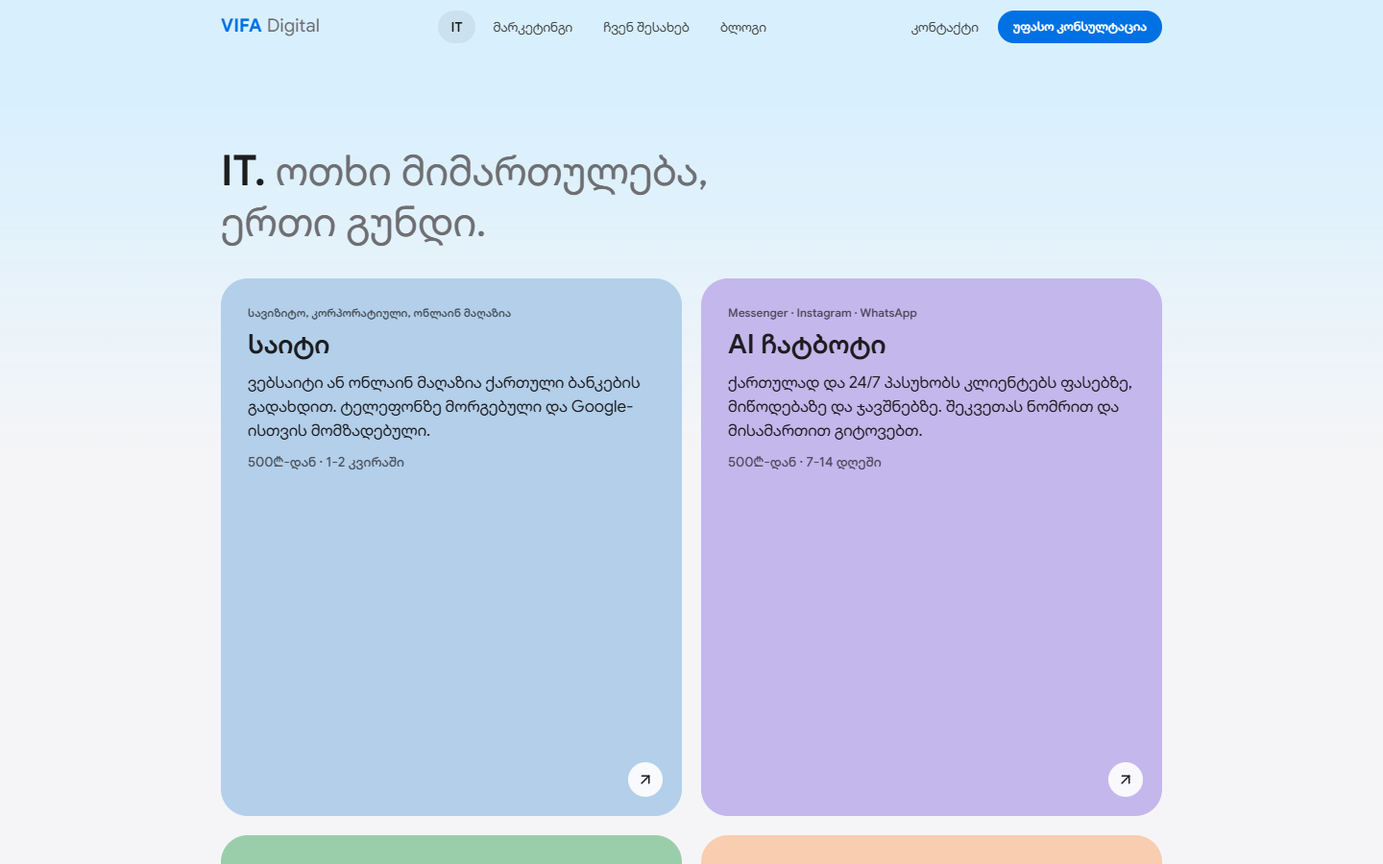
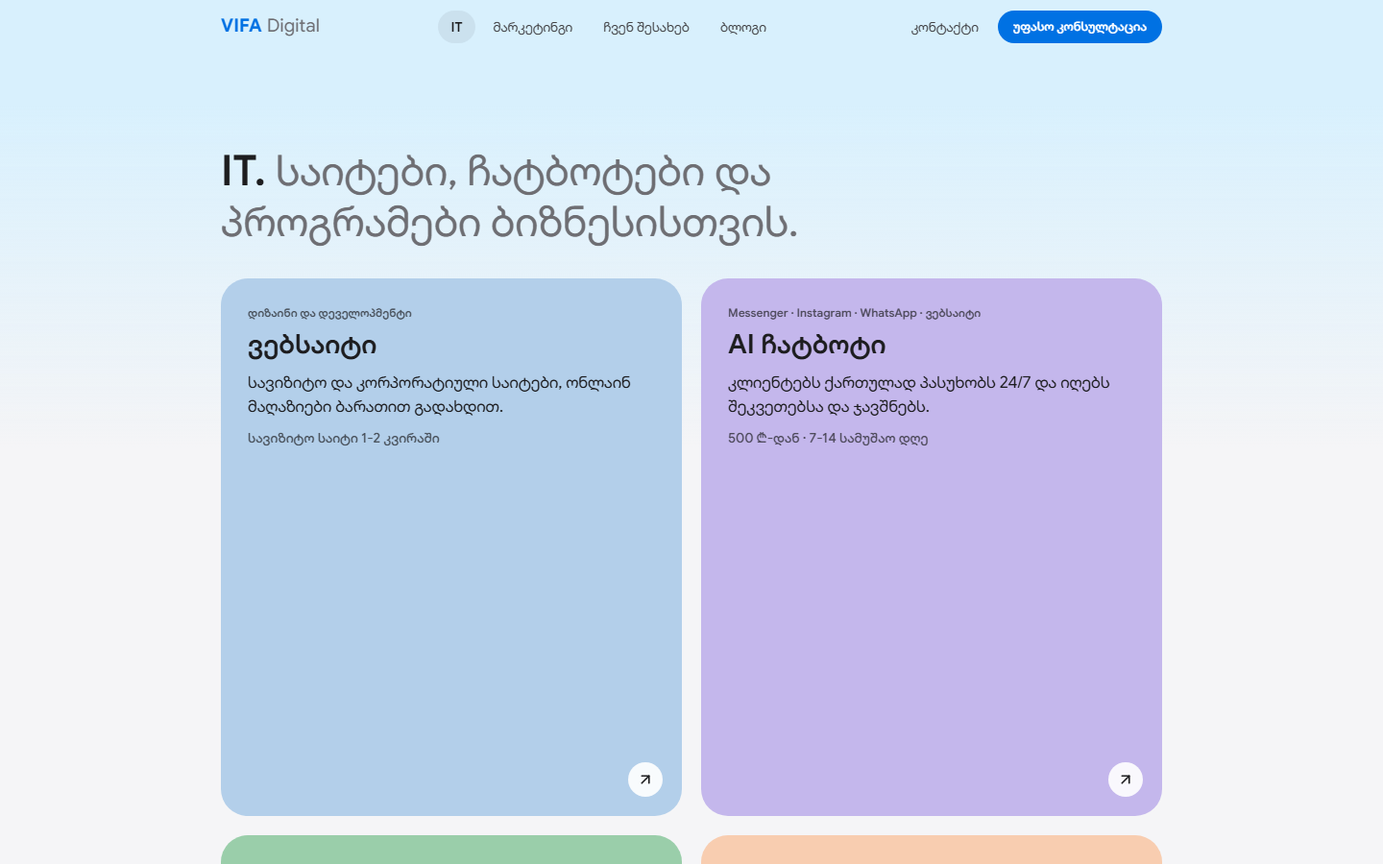
Finalize the IT hub copy and mobile layout

diff --git a/src/pages/preview/hubFaqData.ts b/src/pages/preview/hubFaqData.ts
@@ -1,25 +1,25 @@
-// Copied from WebDev.tsx (ka) and AIChatbot.tsx (ka, faq.q1).
+// Pricing, timelines and features come from WebDev.tsx and AIChatbot.tsx.
 // Keep the visible answers and JSON-LD on the same source of truth.
 export const hubFaqs = [
   {
-    question: "რა ღირს საიტის დამზადება?",
-    answer: "პროექტის ღირებულება შერჩეულ პაკეტზეა დამოკიდებული. სავიზიტო ვებსაიტის ფასი 500₾-დან იწყება, CMS-ით უზრუნველყოფილი პრემიუმ ვებსაიტის ღირებულება 700₾-დან 1000₾-მდე მერყეობს, ხოლო სრულფასოვანი ონლაინ მაღაზიის დამზადება 1400₾-დან არის შესაძლებელი. ჩვენთან კონსულტაცია უფასოა და ზუსტ შეთავაზებას თქვენი ბიზნესის საჭიროებებზე მორგებით მოგიმზადებთ.",
+    question: "რა ღირს ვებსაიტი?",
+    answer: "სავიზიტო საიტის ფასი 500 ₾-დან იწყება. პრემიუმ საიტი მართვის პანელით 700-დან 1 000 ₾-მდე ღირს, ონლაინ მაღაზია კი 1 400 ₾-დან. კონსულტაცია უფასოა. ზუსტ ფასს მას შემდეგ გეტყვით, რაც გავიგებთ, რა გჭირდებათ.",
   },
   {
     question: "რამდენ ხანში მზადდება ვებსაიტი?",
-    answer: "სავიზიტო ვებსაიტის დასამზადებლად საშუალოდ 1-დან 2 კვირამდე დროა საჭირო. პრემიუმ კორპორატიული ვებსაიტის შექმნას 2-დან 4 კვირამდე ვუთმობთ, ხოლო ონლაინ მაღაზიის სრულყოფილად გამართვას 4-დან 6 კვირამდე სჭირდება. სამუშაოს ზუსტ ვადებს პროექტის სპეციფიკისა და მოცულობის მიხედვით ინდივიდუალურად ვათანხმებთ.",
+    answer: "სავიზიტო საიტს საშუალოდ 1-2 კვირა სჭირდება, პრემიუმ კორპორატიულ საიტს 2-4 კვირა, ონლაინ მაღაზიას კი 4-6 კვირა. ზუსტ ვადას პროექტის მოცულობის მიხედვით შევათანხმებთ.",
   },
   {
-    question: "რამდენ დროს მოითხოვს ჩატბოტის გაშვება?",
-    answer: "7-14 სამუშაო დღე. მზა AI ასისტენტს მიიღებთ 7-14 სამუშაო დღეში. ზუსტი ვადები დამოკიდებულია თქვენი ბიზნესის სირთულესა და საჭირო ინტეგრაციების რაოდენობაზე.",
+    question: "რამდენ ხანში მზადდება ჩატბოტი?",
+    answer: "ჩატბოტს 7-14 სამუშაო დღეში ვამზადებთ. ზუსტი ვადა დამოკიდებულია იმაზე, რა უნდა გააკეთოს ბოტმა და რომელ სისტემებთან უნდა დავაკავშიროთ.",
   },
   {
-    question: "აკეთებთ ონლაინ მაღაზიას ქართული ბანკებით გადახდით?",
-    answer: "დიახ, ვქმნით სრულყოფილ ონლაინ მაღაზიებს ქართული ბანკების გადახდის სისტემების სრული ინტეგრაციით. პლატფორმას ასევე ვუკავშირებთ Vifa WMS სისტემას, რაც საშუალებას გაძლევთ მართოთ პროდუქტები, ავტომატურად დაასინქრონოთ მარაგები, დაბეჭდოთ საკურიერო სტიკერები და აკონტროლოთ შეკვეთები რეალურ დროში (real-time).",
+    question: "შეიძლება ონლაინ მაღაზიაში ბარათით გადახდა?",
+    answer: "დიახ. ონლაინ მაღაზიაში ქართული ბანკების გადახდის სისტემებს ვრთავთ. შეგვიძლია მაღაზია Invento WMS-ს დავუკავშიროთ, რომ მართოთ პროდუქტები, ავტომატურად განაახლოთ მარაგები, დაბეჭდოთ საკურიერო სტიკერები და შეკვეთებს რეალურ დროში თვალი ადევნოთ.",
   },
   {
-    question: "შევძლებ ვებსაიტის კონტენტის დამოუკიდებლად მართვას?",
-    answer: "დიახ, პრემიუმ პაკეტის არჩევის შემთხვევაში საიტს მოჰყვება სრულფასოვანი მართვის სისტემა (CMS) და მოსახერხებელი ადმინ პანელი. ამის დახმარებით, დეველოპერის ჩარევის გარეშე, დამოუკიდებლად შეძლებთ ტექსტების, პროდუქტებისა და სიახლეების განახლებას.",
+    question: "შემიძლია საიტზე ტექსტები და პროდუქტები თავად შევცვალო?",
+    answer: "დიახ. პრემიუმ პაკეტში შედის მართვის პანელი, საიდანაც ტექსტებს, პროდუქტებსა და სიახლეებს თავად განაახლებთ.",
   },
 ] as const;
 

diff --git a/src/pages/preview/ITHubPreview.tsx b/src/pages/preview/ITHubPreview.tsx
@@ -31,7 +31,7 @@ const COLORS = {
 } as const;
 
 const CONTACT_NAME = "ერეკლე";
-const HERO_TITLE = "ოთხი მიმართულება, ერთი გუნდი.";
+const HERO_TITLE = "საიტები, ჩატბოტები და პროგრამები ბიზნესისთვის.";
 // One soft color wash, fixed to the top of the screen so it stays with the visitor while
 // scrolling, slowly moving through these tones every WASH_STEP_MS.
 const WASH_PALETTE = ["#d8f0fd", "#fbe2ec", "#e9e3fb", "#dcf2e7"] as const;
@@ -1008,10 +1008,10 @@ export default function ITHubPreview() {
             active={rotation.activeProduct === "web"} turn={rotation.turn}
             onDone={() => rotation.finish("web", rotation.turn)} onActivate={() => rotation.activate("web")}
             to="/services/web"
-            eyebrow="სავიზიტო, კორპორატიული, ონლაინ მაღაზია"
-            title="საიტი"
-            body="ვებსაიტი ან ონლაინ მაღაზია ქართული ბანკების გადახდით. ტელეფონზე მორგებული და Google-ისთვის მომზადებული."
-            facts="500₾-დან · 1-2 კვირაში"
+            eyebrow="დიზაინი და დეველოპმენტი"
+            title="ვებსაიტი"
+            body="სავიზიტო და კორპორატიული საიტები, ონლაინ მაღაზიები ბარათით გადახდით."
+            facts="სავიზიტო საიტი 1-2 კვირაში"
           >
             {(step, _reducedMotion, exiting) => <BrowserWindowObject step={step} exiting={exiting} />}
           </ColoredServiceCard>
@@ -1022,10 +1022,10 @@ export default function ITHubPreview() {
             active={rotation.activeProduct === "chatbot"} turn={rotation.turn}
             onDone={() => rotation.finish("chatbot", rotation.turn)} onActivate={() => rotation.activate("chatbot")}
             to="/services/ai-chatbot"
-            eyebrow="Messenger · Instagram · WhatsApp"
+            eyebrow="Messenger · Instagram · WhatsApp · ვებსაიტი"
             title="AI ჩატბოტი"
-            body="ქართულად და 24/7 პასუხობს კლიენტებს ფასებზე, მიწოდებაზე და ჯავშნებზე. შეკვეთას ნომრით და მისამართით გიტოვებთ."
-            facts="500₾-დან · 7-14 დღეში"
+            body="კლიენტებს ქართულად პასუხობს 24/7 და იღებს შეკვეთებსა და ჯავშნებს."
+            facts="500 ₾-დან · 7-14 სამუშაო დღე"
           >
             {(step, reducedMotion, exiting) => <ChatbotPhoneObject step={step} reducedMotion={reducedMotion} exiting={exiting} />}
           </ColoredServiceCard>
@@ -1036,10 +1036,10 @@ export default function ITHubPreview() {
             active={rotation.activeProduct === "invento"} turn={rotation.turn}
             onDone={() => rotation.finish("invento", rotation.turn)} onActivate={() => rotation.activate("invento")}
             to="/inventowms"
-            eyebrow="საწყობის პროგრამა"
+            eyebrow="მაღაზიებისა და საწყობებისთვის"
             title="Invento WMS"
-            body="საქონლის აღრიცხვა, შეკვეთები და ფინანსები ერთ სისტემაში. მაღაზიებისა და ონლაინ ბიზნესისთვის."
-            facts="79₾/თვე-დან · 7 დღე უფასოდ"
+            body="მართეთ მარაგები, შეკვეთები და ფინანსები ერთი პროგრამიდან."
+            facts="79 ₾ თვეში · 7 დღე უფასოდ"
           >
             {(step, _reducedMotion, exiting) => <LaptopObject step={step} exiting={exiting} />}
           </ColoredServiceCard>
@@ -1050,10 +1050,10 @@ export default function ITHubPreview() {
             active={rotation.activeProduct === "lineup"} turn={rotation.turn}
             onDone={() => rotation.finish("lineup", rotation.turn)} onActivate={() => rotation.activate("lineup")}
             to="/lineup"
-            eyebrow="სპორტული აკადემიის აპი"
+            eyebrow="გუნდები · განრიგი · გადახდები"
             title="LineUp"
-            body="სპორტული აკადემიის მართვა ერთ აპში: გადახდები, დასწრება და მშობლებთან კავშირი."
-            facts="ცოცხალი დემო საიტზე"
+            body="სპორტული აკადემიების, კლუბებისა და სტუდიების მართვის პორტალი."
+            facts="ნახეთ დემო"
           >
             {(step, reducedMotion, exiting) => <LineupPhoneObject step={step} reducedMotion={reducedMotion} exiting={exiting} />}
           </ColoredServiceCard>
@@ -1071,7 +1071,7 @@ export default function ITHubPreview() {
           <div className="it-contact-card">
             <h2 className="it-h2">
               <span className="it-tone-1">კითხვა გაქვთ?</span>{" "}
-              <span className="it-tone-2">მოგვწერეთ, გიპასუხებთ პირადად.</span>
+              <span className="it-tone-2">მოგვიყევით, რა გჭირდებათ.</span>
             </h2>
             <div className="it-contact-row">
               <div className="it-contact-person">
@@ -1082,12 +1082,12 @@ export default function ITHubPreview() {
                 )}
                 <div>
                   <h3 className="it-contact-name">{CONTACT_NAME}</h3>
-                  <p className="it-contact-note">WhatsApp-ზე პირადად გიპასუხებთ.</p>
+                  <p className="it-contact-note">პირადად გიპასუხებთ.</p>
                 </div>
               </div>
               <div className="it-contact-actions">
                 <a href={WHATSAPP_URL} target="_blank" rel="noopener noreferrer" className="it-pill-button">
-                  მოგვწერეთ
+                  მოგვწერეთ WhatsApp-ზე
                 </a>
                 <Link to="/contact" className="it-more-link">საკონტაქტო ფორმა ›</Link>
               </div>

diff --git a/src/pages/preview/HowWeStart.tsx b/src/pages/preview/HowWeStart.tsx
@@ -1,43 +1,53 @@
+import { Link } from "react-router-dom";
 import { useProductScene } from "./useProductScene";
 import type { SceneTiming } from "./useProductScene";
 
 const revealTiming: SceneTiming = { steps: [0, 300, 600], duration: 1200 };
 const consultationUrl = "https://wa.me/995557624243?text=" + encodeURIComponent("გამარჯობა, მინდა უფასო კონსულტაცია.");
 const steps = [
-  { eyebrow: "პირველი ნაბიჯი", title: "მოგვწერეთ", body: "WhatsApp-ში ან ფორმით. პირველი კონსულტაცია უფასოა." },
-  { eyebrow: "მეორე ნაბიჯი", title: "მიიღეთ შეთავაზება", body: "ზუსტი ფასი და ვადა, თქვენს ბიზნესზე მორგებული." },
-  { eyebrow: "მესამე ნაბიჯი", title: "ვაწყობთ და ვუშვებთ", body: "სავიზიტო საიტი 1-2 კვირაში, ჩატბოტი 7-14 დღეში." },
+  { title: "მოგვწერეთ", body: "WhatsApp-ზე ან საკონტაქტო ფორმით მოგვიყევით, რა გჭირდებათ." },
+  { title: "მიიღეთ შეთავაზება", body: "შეთავაზებაში დავწერთ, რა შედის პროექტში, რა ეღირება და რამდენი დრო დაგვჭირდება." },
+  { title: "პროექტს გავუშვებთ", body: "თქვენი თანხმობის შემდეგ სამუშაოს ვიწყებთ. დასრულებულ პროექტს შეთანხმებულ ვადაში მიიღებთ." },
 ];
 
 export function HowWeStart() {
   const scene = useProductScene<HTMLElement>("web", {
-    timing: revealTiming, threshold: 0.5, loop: false, replayOnHover: false,
+    timing: revealTiming, threshold: 0.3, loop: false, replayOnHover: false,
   });
   return <section ref={scene.cardRef} id="getting-started" className="it-section it-getting-started it-col">
-    <h2 className="it-h2"><span>როგორ ვიწყებთ.</span>{" "}<span className="it-tone-2">პირველი მესიჯიდან გაშვებამდე.</span></h2>
-    <ol className="it-start-steps" data-scene-step={scene.step} data-loop-cycle={scene.cycle} data-reduced-motion={scene.reducedMotion}>
+    <h2 className="it-h2">როგორ ვმუშაობთ</h2>
+    <ol className="it-start-steps" role="list" data-scene-step={scene.step} data-loop-cycle={scene.cycle} data-reduced-motion={scene.reducedMotion}>
       {steps.map((step, index) => <li key={step.title} className="it-start-card">
-      <div className="it-start-artifact-space" aria-hidden="true">
-        <div className="it-start-artifact it-scene-element" data-show={scene.step > index}>
-          {index === 0 && <div className="it-start-chat">
-            <p className="it-start-chat-customer">გამარჯობა, საიტი მაინტერესებს.</p>
-            <p className="it-start-chat-reply">გამარჯობა! მოგვიყევით, რა გჭირდებათ.</p>
-          </div>}
-          {index === 1 && <div className="it-start-offer">
-            <strong>შეთავაზება</strong>
-            <div><span>სავიზიტო საიტი</span><span>500₾</span></div>
-            <div><span>ვადა</span><span>1-2 კვირა</span></div>
-            <span className="it-start-confirm">დადასტურება</span>
-          </div>}
-          {index === 2 && <div className="it-start-browser">
-            <div className="it-browser-bar"><div className="it-browser-dots"><span className="it-browser-dot" /><span className="it-browser-dot" /><span className="it-browser-dot" /></div><div className="it-browser-pill" /></div>
-            <div className="it-start-browser-body"><span>საიტი გაშვებულია ✓</span></div>
-          </div>}
+        <div>
+          <h3>{step.title}</h3>
+          <p className="it-start-description">{step.body}</p>
         </div>
-      </div>
-      <p className="it-start-eyebrow">{step.eyebrow}</p>
-      <h3>{step.title}</h3><p className="it-start-description">{step.body}</p>
-    </li>)}</ol>
-    <div className="it-start-consultation"><a className="it-pill-button" href={consultationUrl} target="_blank" rel="noopener noreferrer">უფასო კონსულტაცია</a></div>
+        <div className="it-start-artifact-space" aria-hidden="true">
+          <div className="it-start-artifact it-scene-element" data-show={scene.step > index}>
+            {index === 0 && <div className="it-start-chat">
+              <p className="it-start-chat-customer">გამარჯობა, საიტი მაინტერესებს.</p>
+              <p className="it-start-chat-reply">გამარჯობა! მოგვიყევით, რა გჭირდებათ.</p>
+            </div>}
+            {index === 1 && <div className="it-start-offer">
+              <strong>შეთავაზების მაგალითი</strong>
+              <div><span>პროექტი</span><span>სავიზიტო საიტი</span></div>
+              <div><span>ფასი</span><span>500 ₾</span></div>
+              <div><span>ვადა</span><span>1-2 კვირა</span></div>
+            </div>}
+            {index === 2 && <div className="it-start-browser">
+              <div className="it-browser-bar">
+                <div className="it-browser-dots"><span className="it-browser-dot" /><span className="it-browser-dot" /><span className="it-browser-dot" /></div>
+                <div className="it-browser-pill">vifadigital.ge</div>
+              </div>
+              <div className="it-start-browser-body"><span>საიტი გაშვებულია ✓</span></div>
+            </div>}
+          </div>
+        </div>
+      </li>)}
+    </ol>
+    <div className="it-start-consultation">
+      <a className="it-pill-button" href={consultationUrl} target="_blank" rel="noopener noreferrer">უფასო კონსულტაცია</a>
+      <Link className="it-more-link" to="/contact">საკონტაქტო ფორმა ›</Link>
+    </div>
   </section>;
 }

diff --git a/src/pages/preview/hubSections.css b/src/pages/preview/hubSections.css
@@ -179,28 +179,30 @@
   .it-website-phone[data-show="true"] { transform: none; }
 }
 .it-getting-started { background: transparent; }
-.it-start-steps { display: grid; grid-template-columns: minmax(0,1fr); gap: 20px; padding: 0; margin: 32px 0 0; list-style: none; }
-.it-start-card { min-width: 0; padding: 24px; border-radius: 28px; background: #ffffff; }
-.it-start-artifact-space { height: 180px; display: grid; align-items: center; }
+.it-start-steps { display: grid; grid-template-columns: minmax(0,1fr); padding: 0; margin: 28px 0 0; list-style: none; border-radius: 28px; background: #ffffff; }
+.it-start-card { min-width: 0; padding: 22px; display: flex; flex-direction: column; gap: 16px; }
+.it-start-card + .it-start-card { border-top: 1px solid #e8e9ed; }
+.it-start-artifact-space { min-height: 142px; display: grid; place-items: center; padding: 12px; margin-top: auto; border-radius: 18px; background: #eaf3fb; }
+.it-start-card:nth-child(2) .it-start-artifact-space { background: #eeeef8; }
+.it-start-card:nth-child(3) .it-start-artifact-space { background: #eaf4ee; }
 .it-start-artifact { width: 100%; color: #1d1d1f; font-size: 13px; line-height: 1.4; }
-.it-start-chat, .it-start-offer, .it-start-browser { border: 1px solid #e5e5ea; border-radius: 14px; background: white; overflow: clip; }
-.it-start-chat { display: flex; flex-direction: column; align-items: flex-start; gap: 8px; padding: 14px; }
-.it-start-chat p { max-width: 90%; margin: 0; padding: 9px 11px; border-radius: 14px; }
+.it-start-offer, .it-start-browser { border-radius: 12px; background: white; overflow: clip; box-shadow: 0 4px 14px rgba(29,29,31,0.07); }
+.it-start-chat { display: flex; flex-direction: column; align-items: flex-start; gap: 8px; }
+.it-start-chat p { max-width: 94%; margin: 0; padding: 8px 10px; border-radius: 12px; }
 .it-start-chat-customer { align-self: flex-end; color: white; background: #0071e3; }
-.it-start-chat-reply { background: #e9e9eb; }
-.it-start-offer { padding: 14px; }
-.it-start-offer strong { display: block; margin-bottom: 12px; font-size: 14px; font-weight: 600; }
-.it-start-offer > div { display: flex; justify-content: space-between; gap: 12px; margin-top: 8px; }
-.it-start-offer > div > span:last-child { flex-shrink: 0; font-weight: 500; }
-.it-start-confirm { display: inline-flex; align-items: center; min-height: 26px; margin-top: 12px; padding: 4px 10px; border-radius: 999px; background: #0071e3; color: white; font-size: 11px; }
-.it-start-browser .it-browser-bar { height: 32px; padding-inline: 10px; gap: 10px; }
+.it-start-chat-reply { background: #ffffff; }
+.it-start-offer { padding: 10px 12px; }
+.it-start-offer strong { display: block; margin-bottom: 6px; font-size: 13px; font-weight: 600; }
+.it-start-offer > div { display: flex; justify-content: space-between; gap: 8px; padding-block: 3px; }
+.it-start-offer > div > span:first-child { color: #6e6e73; }
+.it-start-offer > div > span:last-child { font-weight: 500; text-align: end; }
+.it-start-browser .it-browser-bar { height: 28px; padding-inline: 8px; gap: 8px; }
 .it-start-browser .it-browser-dot { width: 6px; height: 6px; }
-.it-start-browser-body { display: grid; place-items: center; min-height: 116px; padding: 16px; }
-.it-start-browser-body > span { padding: 10px 12px; border: 1px solid #e5e5ea; border-radius: 14px; background: white; font-size: 13px; }
-.it-start-eyebrow { margin: 20px 0 0; font-size: 12px; line-height: 1.4; font-weight: 600; color: rgba(29,29,31,0.7); }
-.it-start-steps h3 { margin: 8px 0 0; font-size: 22px; line-height: 1.3; font-weight: 600; color: #1d1d1f; }
+.it-start-browser-body { display: grid; place-items: center; min-height: 76px; padding: 12px; }
+.it-start-browser-body > span { padding: 8px 10px; border-radius: 10px; background: #eaf4ee; color: #28553d; font-size: 13px; }
+.it-start-steps h3 { margin: 0; font-size: 22px; line-height: 1.3; font-weight: 600; color: #1d1d1f; }
 .it-start-description { margin: 8px 0 0; font-size: 16px; line-height: 1.5; color: #6e6e73; }
-.it-start-consultation { display: flex; justify-content: center; margin-top: 32px; }
+.it-start-consultation { display: flex; flex-wrap: wrap; align-items: center; justify-content: center; gap: 12px 20px; margin-top: 24px; }
 .it-faq-list { margin-top: 32px; }
 .it-faq-item { border-bottom: 1px solid #e5e5ea; }
 .it-faq-item:first-child { border-top: 1px solid #e5e5ea; }
@@ -215,6 +217,8 @@
 .it-faq-answer p { margin: 0; padding: 0 44px 24px 0; color: #6e6e73; font-size: 16px; line-height: 1.5; }
 @media (min-width: 900px) {
   .it-start-steps { grid-template-columns: repeat(3,minmax(0,1fr)); }
+  .it-start-card { padding: 26px; gap: 22px; }
+  .it-start-card + .it-start-card { border-top: 0; border-inline-start: 1px solid #e8e9ed; }
 }
 
 /* Industry carousel: large mosaic slides, next slide peeking, Apple-style pager. */
@@ -248,6 +252,20 @@
 .it-ic-dot { width: 8px; height: 8px; padding: 0; border: 0; border-radius: 999px; background: rgba(29,29,31,0.3); cursor: pointer; transition: width 300ms var(--it-enter-ease), background-color 300ms ease; }
 .it-ic-dot[data-on="true"] { width: 24px; background: #1d1d1f; }
 .it-ic-arrow:focus-visible, .it-ic-dot:focus-visible { outline: 2px solid #0071e3; outline-offset: 3px; }
+@media (width < 768px) {
+  .it-ic-track { margin-top: 22px; }
+  .it-ic-slide { grid-template-rows: clamp(148px, 42vw, 195px) auto minmax(max-content, 1fr); }
+  .it-ic-copy { padding: 16px 18px 4px; }
+  .it-ic-copy h3 { font-size: 22px; }
+  .it-ic-copy p { margin-top: 6px; font-size: 15px; line-height: 1.4; }
+  .it-ic-link { margin-top: 8px; line-height: 24px; }
+  .it-ic-tile { padding: 10px 14px 14px; }
+  .it-ic-widget { gap: 5px; padding: 10px 12px; }
+  .it-ic-widget strong { margin-bottom: 0; }
+  .it-ic-field { padding-block: 4px; }
+  .it-ic-button { height: 28px; margin-top: 2px; }
+  .it-ic-pager { margin-top: 16px; }
+}
 /* Desktop: mosaic. Text block top left, widget tile bottom left, big photo on the right. */
 @media (min-width: 768px) {
   .it-ic-slide { width: min(980px, calc(100vw - 44px - 60px)); height: 520px; grid-template-rows: minmax(0,1fr) minmax(0,1fr); grid-template-columns: minmax(0,1fr) minmax(0,1.35fr); }

diff --git a/src/pages/preview/IndustryCarousel.tsx b/src/pages/preview/IndustryCarousel.tsx
@@ -27,33 +27,33 @@ interface Slide {
 const slides: Slide[] = [
   {
     slug: "food", photo: "restaurant", alt: "რესტორნის ინტერიერი ფირუზისფერი კედლით და ხის მაგიდებით",
-    title: "რესტორნები და კაფეები", line: "საიტი ციფრული მენიუთი და მაგიდის დაჯავშნით.",
+    title: "რესტორნები და კაფეები", line: "ციფრული მენიუ და მაგიდის ონლაინ დაჯავშნა.",
     block: "#dcefef", focus: "40% 55%",
     widget: <Widget heading="მაგიდის დაჯავშნა" rows={[["თარიღი", "ხვალ"], ["დრო", "20:00"], ["სტუმარი", "4"]]} action="დაჯავშნა" />,
   },
   {
     slug: "tourism", photo: "hotel", alt: "ძველი თბილისის სახლი ჩუქურთმიანი ხის აივნებით", focus: "48% 45%",
-    title: "სასტუმროები", line: "საიტი პირდაპირი ჯავშნებისთვის.",
+    title: "სასტუმროები", line: "ოთახის დაჯავშნა პირდაპირ თქვენი საიტიდან.",
     block: "#e3edf6",
     widget: <Widget heading="ოთახის დაჯავშნა" rows={[["შესვლა", "12 დეკ"], ["გასვლა", "15 დეკ"], ["სტუმარი", "2"]]} action="თავისუფალი ოთახები" />,
   },
   {
     slug: "retail", photo: "shop", alt: "ტანსაცმლის მაღაზია, პასტელის ფერის ტანსაცმელი საკიდზე", focus: "50% 62%",
-    title: "მაღაზიები", line: "ონლაინ მაღაზია ქართული ბანკების გადახდით.",
+    title: "მაღაზიები", line: "ონლაინ მაღაზია ქართული ბანკების გადახდის სისტემებით.",
     block: "#e9edf4",
     widget: <Widget heading="ცისფერი პერანგი" rows={[["ზომა", "M"], ["ფასი", "79.00 ₾"]]} action="კალათაში დამატება" />,
   },
   {
     slug: "beauty", photo: "salon", alt: "პასტელის ფერის მანიკური იასამნისფერ ფონზე", focus: "50% 38%",
-    title: "სალონები", line: "საიტი ონლაინ ჩაწერით.",
+    title: "სალონები", line: "კლიენტები თავად ირჩევენ დროს და ონლაინ ეწერებიან.",
     block: "#ece6f5",
     widget: <Slots />,
   },
   {
     slug: "legal-finance", photo: "legal", alt: "ხელშეკრულებაზე ხელმოწერა, ახლო ხედი", focus: "40% 45%",
-    title: "იურიდიული კომპანიები", line: "კორპორატიული საიტი და კლიენტთა პორტალი.",
+    title: "იურიდიული კომპანიები", line: "კლიენტის პორტალი დოკუმენტების გასაცვლელად.",
     block: "#eceae6",
-    widget: <Widget heading="კლიენტის პორტალი" rows={[["დოკუმენტი", "ხელშეკრულება.pdf"], ["სტატუსი", "ხელმოსაწერად"]]} action="გახსნა" />,
+    widget: <Widget heading="კლიენტის პორტალი" rows={[["დოკუმენტი", "ხელშეკრულება.pdf"], ["სტატუსი", "გაზიარებულია"]]} action="გახსნა" />,
   },
 ];
 
@@ -68,7 +68,7 @@ function Widget({ heading, rows, action }: { heading: string; rows: [string, str
 function Slots() {
   return <div className="it-ic-widget">
     <strong>ჩაწერა: მანიკური</strong>
-    <span className="it-ic-label">ხვალ, თავისუფალი დრო</span>
+    <span className="it-ic-label">თავისუფალი დრო ხვალ</span>
     <div className="it-ic-slots">{["11:00", "12:00", "15:30", "17:00"].map((t) => <span key={t} data-on={t === "12:00"}>{t}</span>)}</div>
     <span className="it-ic-button">ჩაწერა</span>
   </div>;
@@ -141,8 +141,10 @@ export function IndustryCarousel() {
 
   return (
     <section ref={sectionRef} id="industries" className="it-section it-industry-carousel"
-      aria-roledescription="carousel" aria-label="საიტი თქვენი დარგისთვის">
-      <h2 className="it-h2 it-col"><span>საიტი თქვენი დარგისთვის.</span>{" "}<span className="it-tone-2">ნახეთ, რას აკეთებს ის თქვენს სფეროში.</span></h2>
+      aria-roledescription="carousel" aria-labelledby="industries-heading">
+      <h2 id="industries-heading" className="it-h2 it-col">
+        <span>ვებსაიტები თქვენი სფეროსთვის.</span>{" "}<span className="it-tone-2">ჯავშნები, გადახდები და კლიენტის პორტალები.</span>
+      </h2>
       <div ref={trackRef} className="it-ic-track" onPointerDown={stop} onWheel={(e) => { if (Math.abs(e.deltaX) > Math.abs(e.deltaY)) stop(); }}
         onMouseEnter={() => setHovered(true)} onMouseLeave={() => setHovered(false)}>
         {slides.map((s, i) => (

diff --git a/src/pages/preview/ProductDevices.tsx b/src/pages/preview/ProductDevices.tsx
@@ -24,7 +24,7 @@ export function BrowserWindowObject({ step, exiting = false, mode = "responsive"
       </div>
       <div className="it-browser-body">
         {children ?? <>
-          <img src="/preview/vifa-desktop.png" alt="VIFA" className="it-browser-img it-browser-desktop-img" />
+          <img src="/preview/vifa-desktop.png?v=2" alt="VIFA" className="it-browser-img it-browser-desktop-img" />
         </>}
         {mode === "notification" && (
           <div className="it-scene-notification it-website-notification it-scene-element" data-show={step > 0 && !exiting}>
@@ -39,7 +39,7 @@ export function BrowserWindowObject({ step, exiting = false, mode = "responsive"
     </div>
     {mode === "responsive" && <div className="it-website-phone it-scene-element" data-show={step > 0 && !exiting} data-exiting={exiting} aria-hidden="true">
       <PreviewPhone>
-        <div className="it-site-phone-screen"><img src="/preview/vifa-mobile.png" alt="" /></div>
+        <div className="it-site-phone-screen"><img src="/preview/vifa-mobile.png?v=2" alt="" /></div>
       </PreviewPhone>
     </div>}
     </>
@@ -59,10 +59,10 @@ function PreviewPhone({ children }: { children: ReactNode }) {
 }
 
 const reservationChat = [
-  "ხვალ 20:00-ზე ოთხ კაცზე მაგიდა გაქვთ?",
+  "ხვალ 20:00-ზე ოთხისთვის მაგიდა გაქვთ?",
   "დიახ, თავისუფალია. ვისი სახელით დავჯავშნო?",
   "ნინოს სახელით.",
-  "დაჯავშნილია: ხვალ, 20:00, ოთხი სტუმარი.",
+  "მაგიდა დაჯავშნილია. ხვალ 20:00-ზე გელოდებით.",
 ];
 
 export function ChatbotPhoneObject({ step, reducedMotion, exiting = false, messages = reservationChat, title = "რესტორანი" }: {

diff --git a/src/pages/preview/HubQuestions.tsx b/src/pages/preview/HubQuestions.tsx
@@ -6,7 +6,7 @@ export function HubQuestions() {
   const id = useId();
   const [expanded, setExpanded] = useState<boolean[]>(() => hubFaqs.map(() => false));
   return <section id="questions" className="it-section it-questions it-col" aria-labelledby={`${id}-heading`}>
-    <h2 id={`${id}-heading`} className="it-h2"><span>ხშირი კითხვები.</span>{" "}<span className="it-tone-2">მოკლე პასუხები.</span></h2>
+    <h2 id={`${id}-heading`} className="it-h2">ხშირი კითხვები</h2>
     <div className="it-faq-list">
       {hubFaqs.map(({ question, answer }, index) => <article key={question} className="it-faq-item">
         <h3>
